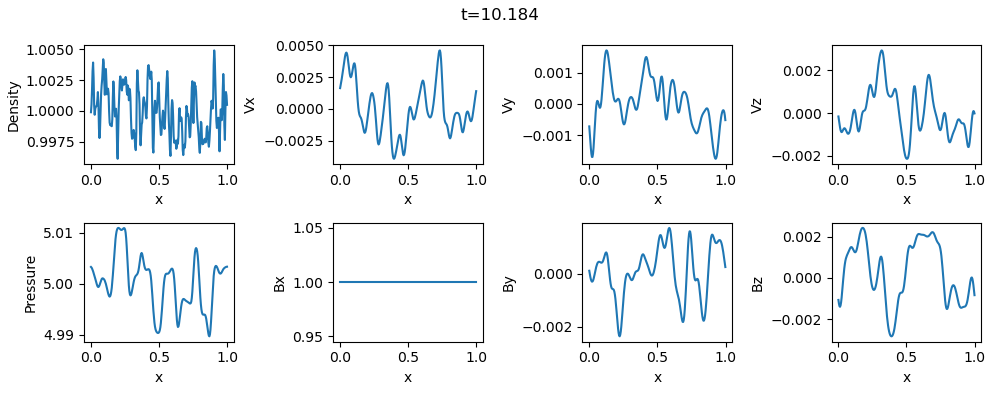
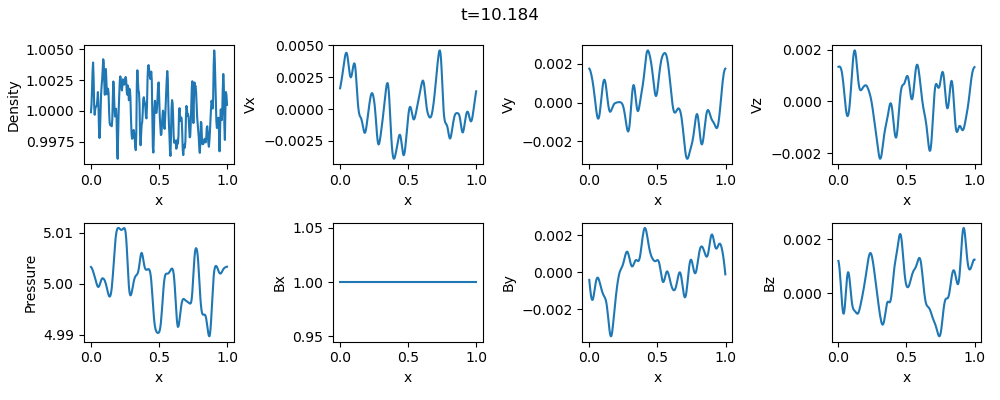
update h-wave

diff --git a/1D/SERIAL/h-wave/mymacros.hpp b/1D/SERIAL/h-wave/mymacros.hpp
@@ -12,7 +12,7 @@
 #define R_K (3)		 /* Temporal order (1,2,3). Never set >3 */
 
 // Inertia length for Hall MHD
-#define D_ION (4.0)		// Ion inertia length relative to grid width
+#define D_ION (1e-2)		// Ion inertia length
 #define D_ELE (0.0)		// "Artificial" electron inertia length relative to grid width
 
 #endif

diff --git a/1D/SERIAL/h-wave/hmhd1d_paras.cpp b/1D/SERIAL/h-wave/hmhd1d_paras.cpp
@@ -25,7 +25,7 @@ void HMHD1D::paras()
   }
 
   // Hall parameters
-  di=dx*D_ION;
+  di=D_ION;
   de=dx*D_ELE;
   idx=1.0/dx;
   double kpeak=M_PI*idx;
